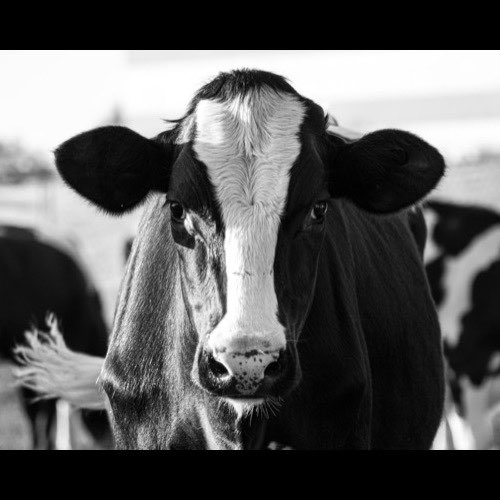
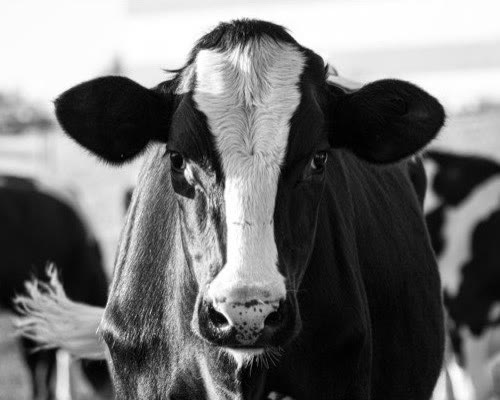
Xóa viền đen bị lỗi trong 17 ảnh (resize pipeline cũ) + xóa metadata EXIF/IPTC
- Phát hiện và crop bỏ viền đen bám sẵn trong pixel của 17/18 ảnh đã ship
  (6 ảnh trái cây đợt này + 12 ảnh con vật/xe cộ đợt trước đã merge), do
  pipeline `sips -Z 600` + `sips -c 500 500` cũ: nếu ảnh gốc không vuông,
  `-Z 600` chỉ đảm bảo cạnh dài = 600 nên cạnh ngắn có thể dưới 500, và
  `-c 500 500` không thể crop cạnh ngắn đó lên 500 nên đệm thêm viền đen.
  bicycle.jpg không bị lỗi nên giữ nguyên, không đụng tới.
- Dùng ffmpeg phân tích độ sáng từng hàng/cột pixel để tìm chính xác độ
  dày viền mỗi ảnh, crop bỏ viền (căn giữa), và xác minh lại bằng mắt
  từng ảnh sau khi crop.
- Xóa metadata EXIF/IPTC (bao gồm chuỗi "All rights reserved" + tên
  nhiếp ảnh gia trong vài ảnh) khỏi cả 17 ảnh đã chỉnh sửa.
- Bump CACHE service worker bevui-v5 -> bevui-v6 vì byte ảnh đã đổi.
- Sửa lại hướng dẫn pipeline sips trong tài liệu kế hoạch cho các đợt sau.

diff --git a/sw.js b/sw.js
@@ -1,5 +1,5 @@
 // Bé Vui Chơi — service worker: chơi offline + tự cập nhật ngầm
-const CACHE = 'bevui-v5';
+const CACHE = 'bevui-v6';
 const ASSETS = ['./', './index.html', './manifest.webmanifest', './apple-touch-icon.png', './apple-touch-icon-180.png', './icon-192.png', './icon-512.png', './favicon-32.png', './favicon.ico', './audio/bgmusic.mp3', './img/animals/dog.jpg', './img/animals/cat.jpg', './img/animals/cow.jpg', './img/animals/chicken.jpg', './img/animals/duck.jpg', './img/animals/pig.jpg', './img/vehicles/car.jpg', './img/vehicles/train.jpg', './img/vehicles/airplane.jpg', './img/vehicles/firetruck.jpg', './img/vehicles/bus.jpg', './img/vehicles/bicycle.jpg', './img/fruits/apple.jpg', './img/fruits/banana.jpg', './img/fruits/grapes.jpg', './img/fruits/orange.jpg', './img/fruits/watermelon.jpg', './img/fruits/strawberry.jpg'];
 
 self.addEventListener('install', e => {

diff --git a/docs/superpowers/plans/2026-11-14-fruit-images-and-card-icons.md b/docs/superpowers/plans/2026-11-14-fruit-images-and-card-icons.md
@@ -79,7 +79,8 @@ git commit -m "Cho phép thẻ game ở màn hình chính dùng ảnh thật tha
 **Interfaces:**
 - Consumes: `makeBoard`'s `it[4]` slot (Task 1) and `CARDS`' `c[5]` slot (Task 2).
 
-- [ ] **Step 1: Source and prepare 6 fruit images.** Search Pixabay/Pexels for a real photo of each: apple, banana, grapes (a bunch), orange, watermelon (a slice or whole, your call), strawberry. Pick clear, recognizable, well-lit photos — avoid prop-heavy or stylized shots (lesson from the prior batch's visual QA pass: reject anything too dark/low-contrast or where the fruit isn't the clear subject). Resize to ~500×500 square JPEG, compress to ≤50KB each (macOS `sips`, same pipeline as the prior batch: `sips -Z 600`, `sips -c 500 500`, `sips -s format jpeg -s formatOptions <50-60>`).
+- [ ] **Step 1: Source and prepare 6 fruit images.** Search Pixabay/Pexels for a real photo of each: apple, banana, grapes (a bunch), orange, watermelon (a slice or whole, your call), strawberry. Pick clear, recognizable, well-lit photos — avoid prop-heavy or stylized shots (lesson from the prior batch's visual QA pass: reject anything too dark/low-contrast or where the fruit isn't the clear subject). Resize to ~500×500 square JPEG, compress to ≤50KB each.
+  **Corrected `sips` pipeline (do not use the prior batch's pipeline as-is — it had a bug that baked solid black letterbox bars into 16 of 18 shipped photos, fixed after the fact in a later pass):** scale the *shortest* side up/down to at least 500 first — `sips -Z 500` only guarantees the *longest* side fits 500 and can leave the shorter side well under 500 for non-square sources (e.g. a 3:2 photo becomes 500×333), so instead resize so the shorter side reaches 500 (if the source is wider than tall, resize by height; if taller than wide, resize by width — check the source's own aspect ratio before picking which `sips -z`/`-Z` flag/dimension to use), **then** center-crop to exactly 500×500 with `sips -c 500 500`. Center-cropping down from a shorter side already ≥500 only ever removes pixels, never pads — padding-with-black is the bug to avoid. Finish with `sips -s format jpeg -s formatOptions <50-60>`. After processing each image, sanity-check for black bars before moving on (e.g. visually inspect it, or sample pixel brightness near all four edges) rather than assuming the pipeline worked.
 - [ ] **Step 2: Add the image path as a 4th element to `FRUITS`' first 6 entries** (`index.html:2239`), in order: apple→`img/fruits/apple.jpg`, banana→`img/fruits/banana.jpg`, grapes→`img/fruits/grapes.jpg`, orange→`img/fruits/orange.jpg`, watermelon→`img/fruits/watermelon.jpg`, strawberry→`img/fruits/strawberry.jpg`. Leave `FRUITS`' other 6 entries (pineapple, mango, pear, coconut, cherry, kiwi) exactly as they are — 3-element arrays, unchanged.
 - [ ] **Step 3: Update `FruitBoard`'s `.map()`** (`index.html:2255`, currently `FRUITS.slice(0,6).map(f=>[f[0],f[1],T('Màu ',"")+f[2]+'!','note'])`) to also pass the new 4th `FRUITS` element through as the resulting item's 5th element (`it[4]`), e.g. `[f[0],f[1],T('Màu ',"")+f[2]+'!','note',f[3]]`.
 - [ ] **Step 4: Add a 6th element to the `animals`, `vehicles`, and `fruitsB` entries in `CARDS`** — one photo path each. For `animals`/`vehicles`, reuse one existing photo already shipped in a prior batch (e.g. `img/animals/dog.jpg`, `img/vehicles/car.jpg` — pick whichever single photo you judge most recognizable as representing the whole category). For `fruitsB`, use one of this task's new fruit photos (e.g. the apple).
